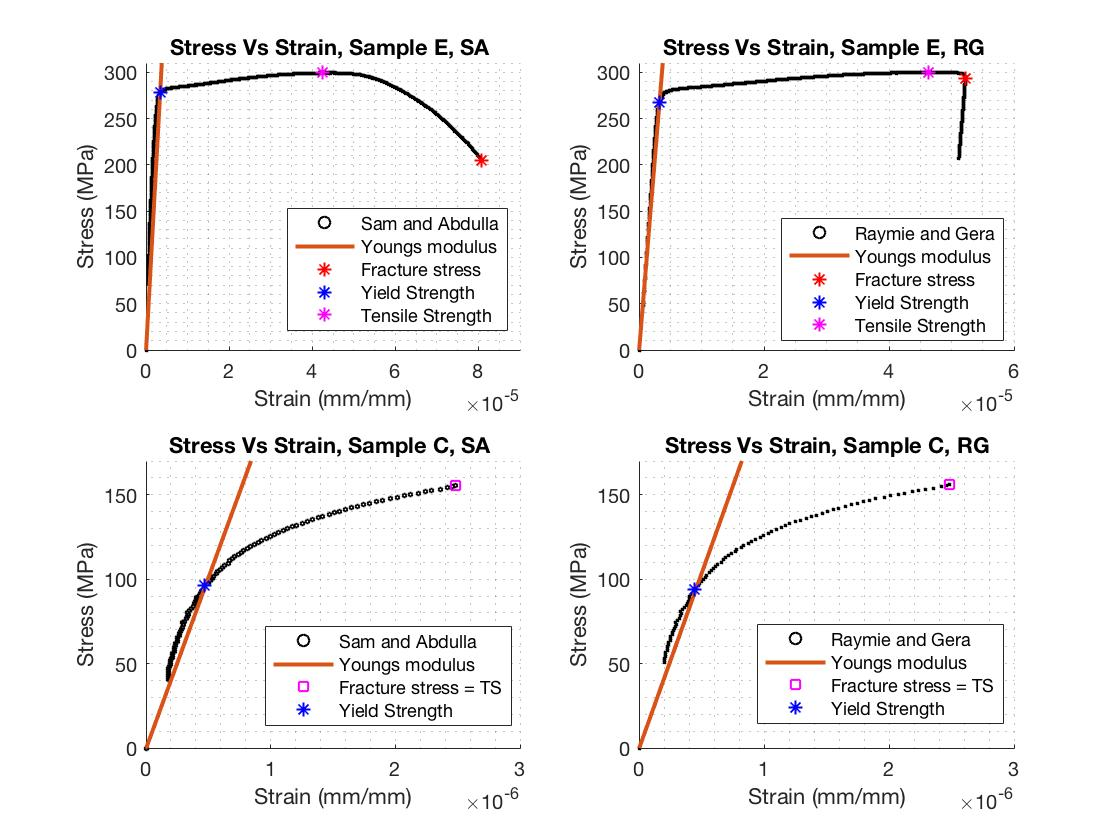
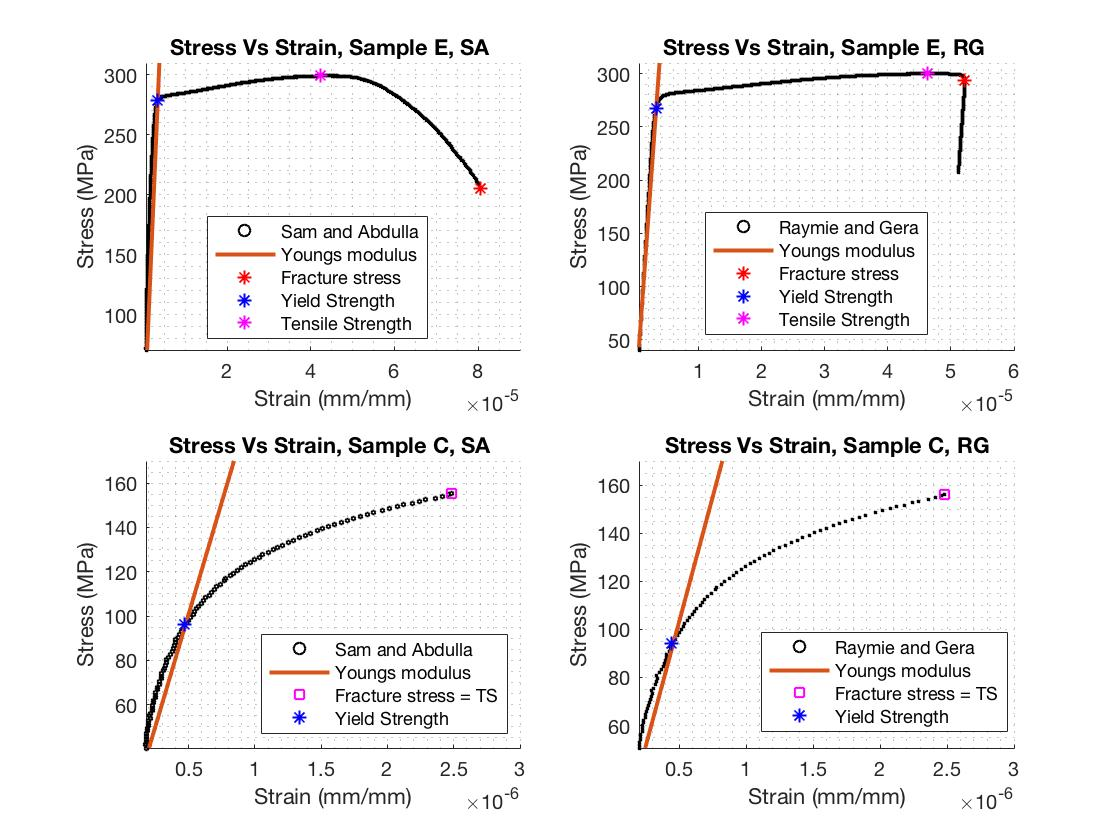
Updated graphs

diff --git a/TensileLab.m b/TensileLab.m
@@ -66,21 +66,6 @@ Strain_RG_E = ElongationE_RG .* 0.0254 ; % Calculating Strain ( Elongation / len
 Strain_RG_C = ElongationC_RG .* 0.0254 ; % Calculating Strain ( Elongation / length )
 
 
-%% OFFSETTING THE DATA
-
-% Our Extensometer was not zeroed, so we will offset the data of the strain
-
-% offset based on the first value
-
-%{
-    
-Strain_SA_C = Strain_SA_C - Strain_SA_C(1) ;
-Strain_SA_E = Strain_SA_E - Strain_SA_E(1) ; 
-Strain_RG_E = Strain_RG_E - Strain_RG_E(1) ; 
-Strain_RG_C = Strain_RG_C - Strain_RG_C(1) ;
-
-%}
-
 
 %% OFFSET THE DATA
 
@@ -304,10 +289,14 @@ ylabel('Stress (MPa)');
 title ('Stress Vs Strain, Sample E, SA ');
 legend('Sam and Abdulla','Youngs modulus','Fracture stress','Yield Strength','Tensile Strength');
 
+xlim([Strain_SA_E(2) 9e-5]);
+ylim([Stress_SA_E(2) 310]);
 
 
+%{
 xlim([-1E-9 9e-5]);
 ylim([0 310]);
+%}
 
 %_______________________________
 
@@ -337,9 +326,14 @@ ylabel('Stress (MPa)');
 title ('Stress Vs Strain, Sample E, RG ');
 legend('Raymie and Gera','Youngs modulus', 'Fracture stress','Yield Strength','Tensile Strength');
 
+xlim([Strain_RG_E(2) 6e-5]);
+ylim([Stress_RG_E(2) 310]);
 
+
+%{
 xlim([0 6e-5]);
 ylim([0 310]);
+%}
 
 %___________________________
 
@@ -368,9 +362,14 @@ title ('Stress Vs Strain, Sample C, SA ');
 legend('Sam and Abdulla','Youngs modulus','Fracture stress = TS','Yield Strength');
 
 
+xlim([Strain_SA_C(2) 0.30e-5]);
+ylim([Stress_SA_C(2) 170]);
+
+
+%{
 xlim([0 0.30e-5]);
 ylim([0 170]);
-
+%}
 
 
 % FORTH PLOT
@@ -398,8 +397,13 @@ ylabel('Stress (MPa)');
 title ('Stress Vs Strain, Sample C, RG');
 
 
+xlim([Strain_RG_C(2) 0.30e-5]);
+ylim([Stress_RG_C(2) 170]);
+
+%{
 xlim([0 0.30e-5]);
 ylim([0 170]);
+%}
 
 hold off
 
